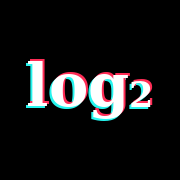
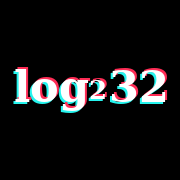
フィードのアイコンを log₂32 にした
前のアプリのアイコンと同じ「2⁵ の暗示」を残したまま、
TikTok 風にシアンと赤をずらして重ねた見た目にした。
差し替えたので Service Worker の版も上げる。

Claude-Session: https://claude.ai/code/session_014QrZBYCKyV7kQfrCr5yyuE

Changed region(s): [[0.0556, 0.3056, 0.9444, 0.6944]]

diff --git a/feed/sw.js b/feed/sw.js
@@ -8,7 +8,7 @@
      ・圏外でも開けること
      ・つながっているときは必ず最新が出ること */
 
-const VERSION = 'v1';
+const VERSION = 'v2';
 const CACHE   = 'explog-feed-' + VERSION;
 
 const SHELL = [
